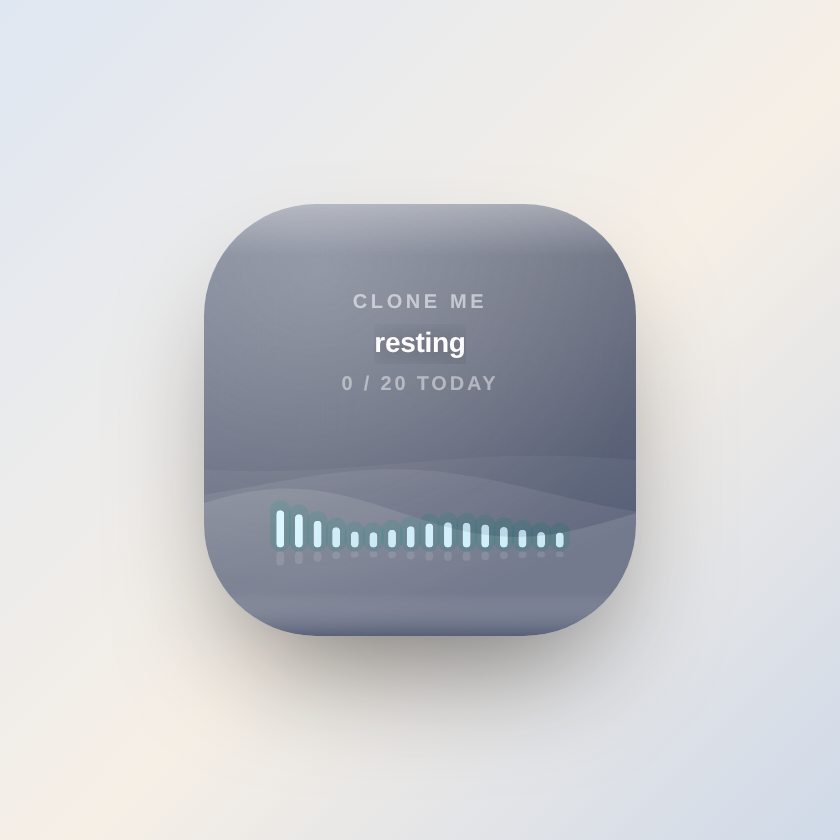
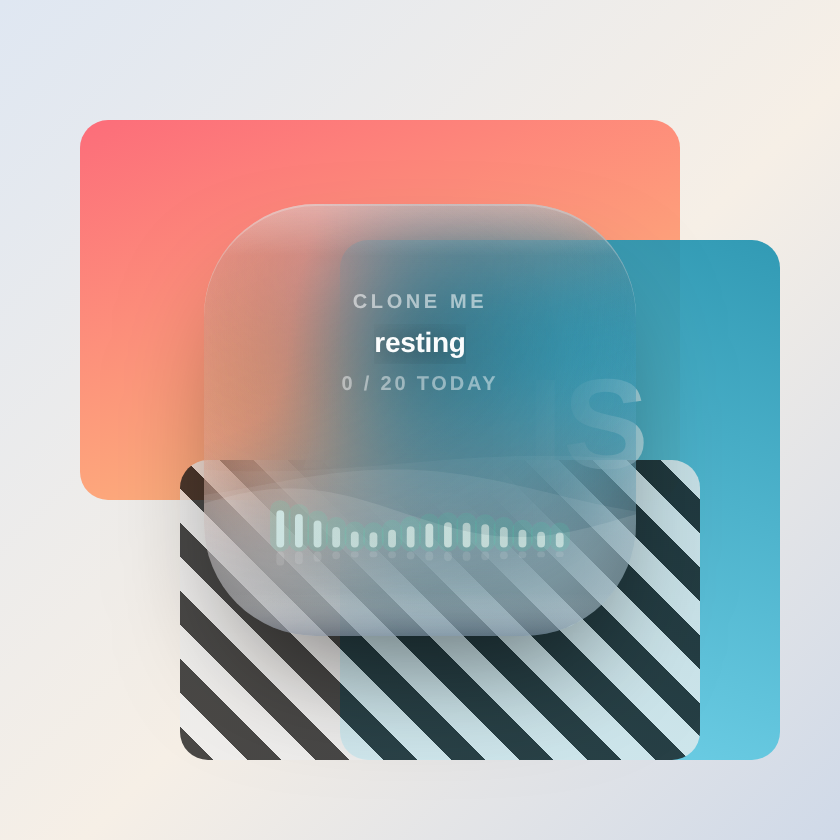
Clone Me: actually see-through
The tint was at .52–.78, which is a coloured pane, not glass. It is .05–.16 now
and the desktop reads straight through it.

The legibility that density was buying is solved where the problem actually is:
a soft elliptical scrim under the type only, feathered to nothing well before
the edges. The words hold on any ground; the rest of the pane stays clear.

The preview was lying to me about this. A flat gradient behind glass proves
nothing — transparency is only visible when there is something with edges
behind it. The ground is cluttered now: overlapping cards, a hard stripe
pattern, big type. That render is what showed the pane was still solid.

Claude-Session: https://claude.ai/code/session_0181L2kuKeioRLEVYRzeLmhY

diff --git a/tools/clone-me/app/CloneMe.app/Contents/Resources/Shell/main.swift b/tools/clone-me/app/CloneMe.app/Contents/Resources/Shell/main.swift
@@ -312,10 +312,20 @@ final class Shell: NSObject, NSApplicationDelegate, WKScriptMessageHandler, WKNa
 
       /* A tint, not a paint: the material is the window's blur behind this. */
       var g=x.createLinearGradient(0,0,w*0.4,h);
-      /* Dense enough to carry its own contrast. Thinner than this and the
-         type disappeared the moment the desktop behind it was pale. */
-      g.addColorStop(0,tint(0.52));g.addColorStop(1,tint(0.78));
+      /* Barely a tint. He wants to see through it, so the glass is glass and
+         the legibility problem is solved where it actually is — behind the
+         words — rather than by making the whole pane opaque. */
+      g.addColorStop(0,tint(0.05));g.addColorStop(1,tint(0.16));
       x.fillStyle=g;x.fillRect(0,0,w,h);
+
+      /* A scrim under the type only: a soft elliptical shadow, feathered to
+         nothing well before the edges, so the words hold on any desktop while
+         the rest of the pane stays see-through. */
+      var sc=x.createRadialGradient(w/2,h*0.33,4,w/2,h*0.33,w*0.62);
+      sc.addColorStop(0,"rgba(6,10,18,.46)");
+      sc.addColorStop(0.55,"rgba(6,10,18,.18)");
+      sc.addColorStop(1,"rgba(6,10,18,0)");
+      x.fillStyle=sc;x.fillRect(0,0,w,h);
 
       /* The water. Three waves at different speeds; where they cross they
          brighten, and that interference is what reads as liquid. */
@@ -363,7 +373,7 @@ final class Shell: NSObject, NSApplicationDelegate, WKScriptMessageHandler, WKNa
       r.addColorStop(0,"rgba(255,255,255,.30)");
       r.addColorStop(0.12,"rgba(255,255,255,0)");
       r.addColorStop(0.9,"rgba(255,255,255,0)");
-      r.addColorStop(1,tint(0.35));
+      r.addColorStop(1,tint(0.22));
       x.fillStyle=r;x.fillRect(0,0,w,h);
 
       /* A specular sweep, drifting. */
